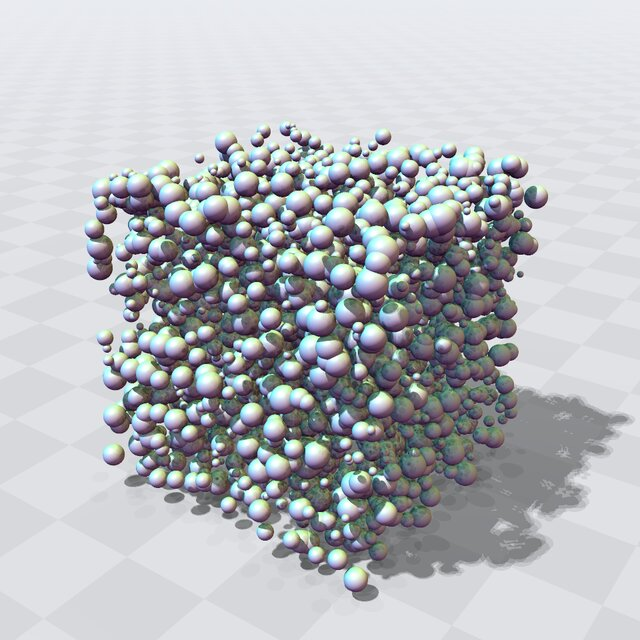
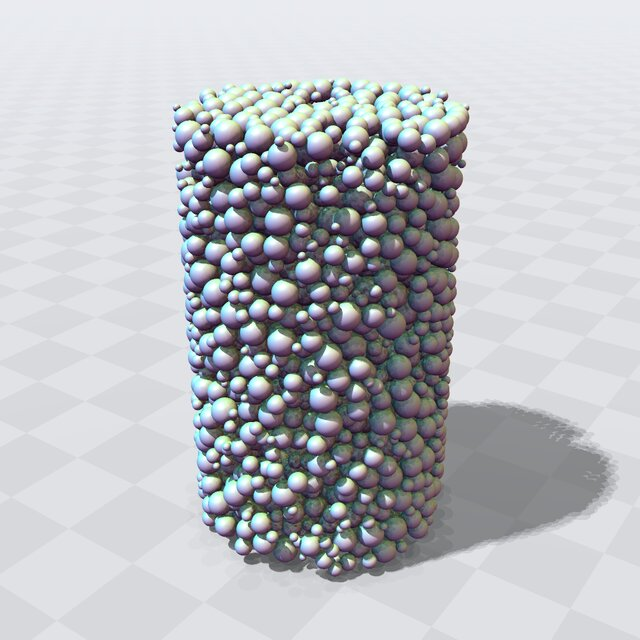
ParticleContacts: push the particles apart in a cylinder until none overlap, then a near-contact force
Seeded at random, the particles overlapped, and the example showed them so. They are now
pushed apart a round at a time, with a rebuild() after each, until none overlap, inside an
upright cylinder; the GPU part sums a short-range repulsion over the gap.

Claude-Session: https://claude.ai/code/session_01FnaeZk1ThKVcT9ypbex2Vt

diff --git a/Examples/ParticleContacts/main.cpp b/Examples/ParticleContacts/main.cpp
@@ -2,10 +2,14 @@
 //
 // SPDX-License-Identifier: GPL-3.0-or-later
 
-// Particles of differing sizes and their contacts: for each particle, the particles it overlaps or comes within a
-// gap of, through SphereCloudBVH::forEachContact(). The contacts are listed per particle on the host, in arrays of
-// the program's own, and a contact force is summed per particle on a GPU. See README.md.
+// Particles of differing sizes packed in a cylinder, and their contacts: for each particle, the particles that come
+// within a gap of it, through SphereCloudBVH::forEachContact(). Particles seeded at random overlap, so they are first
+// pushed apart, a round at a time, rebuilding the cloud after each round, until none overlap. Their contacts are then listed per
+// particle on the host, in arrays of the program's own, and a near-contact force is summed per particle on a GPU.
+// See README.md.
 
+#include <algorithm>
+#include <cmath>
 #include <cstddef>
 #include <cstdint>
 #include <iomanip>
@@ -20,68 +24,143 @@
 #define EBGEOMETRY_PRECISION double
 #endif
 
-using T     = EBGEOMETRY_PRECISION;
-using Vec3  = EBGeometry::Vec3T<T>;
-using Cloud = EBGeometry::SphereCloudBVH<T>;
+using T      = EBGEOMETRY_PRECISION;
+using Vec3   = EBGeometry::Vec3T<T>;
+using Cloud  = EBGeometry::SphereCloudBVH<T>;
+using Source = EBGeometry::SphereCloud::
+  FromCentersAndRadii<T, EBGeometry::PointCloud::FromArray<T>, EBGeometry::SphereCloud::FromRadii<T>>;
 
 // What forEachContact() reports for each contact: the other particle's index, and the separation of the two
 // surfaces, |c_i - c_j| - (r_i + r_j), as its distance (negative when they overlap).
 using Hit = EBGeometry::SphereCloud::Hit<T>;
 
-// The particles: numParticles in the unit cube, with radii between minRadius and maxRadius. Two particles are in
-// contact when their surfaces are less than gap apart.
+// The particles: numParticles seeded in an upright cylinder (along y), with radii between minRadius and maxRadius. Two
+// particles are in contact when their surfaces are less than gap apart. Overlapping particles are pushed until they
+// are about skin apart, in at most maxRounds rounds.
 constexpr std::size_t   numParticles = 3000;
+constexpr T             cylRadius    = T(0.4);
+constexpr T             cylHeight    = T(1.3);
+constexpr T             twoPi        = T(6.283185307179586);
 constexpr T             minRadius    = T(0.01);
 constexpr T             maxRadius    = T(0.04);
 constexpr T             gap          = T(0.005);
+constexpr T             skin         = T(0.0005);
+constexpr int           maxRounds    = 200;
+constexpr std::size_t   leafSize     = 64;
 constexpr std::uint64_t centerSeed   = 123456789ULL;
 constexpr std::uint64_t radiusSeed   = 192837465ULL;
 
 // ── The code that runs on either side ──────────────────────────────────────────────────────────────────
 //
-// A contact force for EBGeometry::GPU::transform(): one particle's index in, the summed force of the particles it
-// overlaps out, each pushing along the line of centers in proportion to the overlap. The query visits the
-// particle's contacts and calls the lambda once for each.
-struct ContactForce
+// A repulsion for EBGeometry::GPU::transform(): one particle's index in, the summed push of the particles closer to
+// it than m_range out. Each pushes along the line of centers, in proportion to how much closer than m_range it is,
+// as the short-range forces of a particle code do. The query visits those particles and calls the lambda for each.
+struct Repulsion
 {
   Cloud m_cloud;
+  T     m_range;
 
   EBGEOMETRY_HOST_DEVICE
   Vec3
   operator()(const std::uint32_t a_index) const noexcept
   {
     const Vec3 center = m_cloud.sphere(a_index).m_center;
-    Vec3       force  = Vec3::zeros();
+    Vec3       push   = Vec3::zeros();
 
-    m_cloud.forEachContact(a_index, gap, [this, &center, &force](const Hit& a_contact) {
+    m_cloud.forEachContact(a_index, m_range, [this, &center, &push](const Hit& a_contact) {
       const Vec3 apart  = center - m_cloud.sphere(a_contact.index).m_center;
       const T    length = apart.length();
 
-      if (a_contact.distance < T(0) && length > T(0)) {
-        force += (-a_contact.distance / length) * apart;
+      if (length > T(0)) {
+        push += ((m_range - a_contact.distance) / length) * apart;
       }
     });
 
-    return force;
+    return push;
   }
 };
+
+// Keeps a particle in the cylinder: its center at least its radius from the wall and from both ends.
+void
+keepInside(Vec3& a_center, const T a_radius)
+{
+  const T rho  = std::sqrt(a_center[0] * a_center[0] + a_center[2] * a_center[2]);
+  const T most = cylRadius - a_radius;
+
+  if (rho > most) {
+    a_center[0] *= most / rho;
+    a_center[2] *= most / rho;
+  }
+
+  a_center[1] = std::clamp(a_center[1], a_radius, cylHeight - a_radius);
+}
 
 int
 main(int argc, char* argv[])
 {
-  // ── Build the cloud ────────────────────────────────────────────────────────────────────────────────
-  const std::vector<Vec3> centers = EBGeometry::Random::samplePoints<T>(numParticles, centerSeed);
+  // ── Build the cloud, with room to rebuild ──────────────────────────────────────────────────────────
+  //
+  // Centers uniform in the cylinder, from uniform draws in the unit cube. The cloud reads the program's own centers
+  // and radii through Source; a particle is known by its index in them. The last argument of build() reserves room
+  // for rebuilds of up to that many particles.
+  std::vector<Vec3>       centers = EBGeometry::Random::samplePoints<T>(numParticles, centerSeed);
   const std::vector<Vec3> draws   = EBGeometry::Random::samplePoints<T>(numParticles, radiusSeed);
 
   std::vector<T> radii(numParticles);
 
   for (std::size_t i = 0; i < numParticles; i++) {
-    radii[i] = minRadius + draws[i][0] * (maxRadius - minRadius);
+    const T rho   = cylRadius * std::sqrt(centers[i][0]);
+    const T theta = twoPi * centers[i][1];
+
+    centers[i] = Vec3(rho * std::cos(theta), cylHeight * centers[i][2], rho * std::sin(theta));
+    radii[i]   = minRadius + draws[i][0] * (maxRadius - minRadius);
+
+    keepInside(centers[i], radii[i]);
   }
 
   EBGeometry::Pool pool(EBGeometry::hostMemoryResource());
 
-  const Cloud cloud(pool, centers, radii);
+  const Source source{EBGeometry::PointCloud::FromArray<T>{centers.data()},
+                      EBGeometry::SphereCloud::FromRadii<T>{radii.data()}};
+
+  Cloud cloud = Cloud::build(pool, source, numParticles, leafSize, numParticles);
+
+  // ── Push the particles apart ───────────────────────────────────────────────────────────────────────
+  //
+  // A contact within a gap of 0 is an overlap. Each round moves every particle by half the push of the particles
+  // closer to it than skin (half, since both particles of a pair move), keeps it in the cylinder, then rebuilds the
+  // cloud from the moved centers, in the arrays build() reserved.
+  std::vector<Vec3> push(numParticles);
+
+  for (int round = 0;; round++) {
+    std::size_t overlaps = 0;
+
+    for (std::uint32_t i = 0; i < numParticles; i++) {
+      cloud.forEachContact(i, T(0), [&overlaps](const Hit&) { overlaps++; });
+    }
+
+    if (round % 10 == 0 || overlaps == 0) {
+      std::cout << "Round " << std::setw(3) << round << ": " << overlaps / 2 << " overlapping pairs\n";
+    }
+
+    if (overlaps == 0 || round == maxRounds) {
+      break;
+    }
+
+    const Repulsion repulsion{cloud, skin};
+
+    for (std::uint32_t i = 0; i < numParticles; i++) {
+      push[i] = repulsion(i);
+    }
+
+    for (std::size_t i = 0; i < numParticles; i++) {
+      centers[i] += T(0.5) * push[i];
+
+      keepInside(centers[i], radii[i]);
+    }
+
+    cloud.rebuild(source, numParticles);
+  }
 
   // ── One particle's contacts ────────────────────────────────────────────────────────────────────────
   //
@@ -90,8 +169,7 @@ main(int argc, char* argv[])
   std::cout << std::fixed << std::setprecision(4) << "Particle 0 (radius " << radii[0] << ") is in contact with\n";
 
   cloud.forEachContact(0U, gap, [](const Hit& a_contact) {
-    std::cout << "  particle " << std::setw(4) << a_contact.index << ", separation " << a_contact.distance
-              << (a_contact.distance < T(0) ? " (overlapping)" : "") << '\n';
+    std::cout << "  particle " << std::setw(4) << a_contact.index << ", separation " << a_contact.distance << '\n';
   });
 
   // ── A contact list, in the program's own arrays ────────────────────────────────────────────────────
@@ -119,11 +197,11 @@ main(int argc, char* argv[])
   std::cout << contacts.size() / 2 << " contacts between " << numParticles << " particles; particle 1 has "
             << rowStart[2] - rowStart[1] << ", particle 2 has " << rowStart[3] - rowStart[2] << '\n';
 
-  // ── The contact force on a GPU ─────────────────────────────────────────────────────────────────────
+  // ── The near-contact force on a GPU ────────────────────────────────────────────────────────────────
   //
   // Freeze the pool, mirror it into GPU::memoryResource(), and take a rebasedView() of the cloud that resolves
-  // against the copy. GPU::transform() runs ContactForce once per particle, one thread each, with no list and no
-  // atomics. In a plain C++ build the same lines run on the host.
+  // against the copy. GPU::transform() runs Repulsion over the gap once per particle, one thread each, with no list
+  // and no atomics. In a plain C++ build the same lines run on the host.
   pool.freeze();
 
   if (EBGeometry::GPU::enabled && !EBGeometry::GPU::deviceAvailable()) {
@@ -139,9 +217,9 @@ main(int argc, char* argv[])
       particles[i] = i;
     }
 
-    EBGeometry::GPU::transform(ContactForce{cloud.rebasedView(devicePool)}, particles, forces);
+    EBGeometry::GPU::transform(Repulsion{cloud.rebasedView(devicePool), gap}, particles, forces);
 
-    std::cout << "Contact forces through GPU::transform (backend: " << EBGeometry::GPU::backendName << "):\n";
+    std::cout << "Near-contact forces through GPU::transform (backend: " << EBGeometry::GPU::backendName << "):\n";
 
     for (std::uint32_t i = 0; i < 3; i++) {
       std::cout << "  particle " << i << ": " << forces[i] << '\n';

diff --git a/Docs/Sphinx/source/ExampleParticleContacts.rst b/Docs/Sphinx/source/ExampleParticleContacts.rst
@@ -3,8 +3,8 @@
 Particle contacts
 =================
 
-Particles of differing sizes and their contacts: for each particle, the particles it overlaps or comes within a
-gap of, through ``forEachContact()`` on a
+Particles of differing sizes packed in a cylinder, and their contacts: for each particle, the particles that come
+within a gap of it, through ``forEachContact()`` on a
 `SphereCloudBVH <doxygen/html/classEBGeometry_1_1SphereCloudBVH.html>`__ (see :ref:`Chap:ImplemPointCloud`). The
 source is at :file:`Examples/ParticleContacts/main.cpp`.
 
@@ -12,15 +12,15 @@ source is at :file:`Examples/ParticleContacts/main.cpp`.
    :width: 60%
    :align: center
 
-   3,000 particles in the unit cube, with radii between 0.01 and 0.04.
+   3,000 particles packed in a cylinder, with radii between 0.01 and 0.04, none overlapping.
 
 The code that runs on either side
 ---------------------------------
 
-The functor ``ContactForce`` holds the cloud by value and maps a particle's index to the force of the particles it
-overlaps, each pushing along the line of centers in proportion to the overlap. Its ``EBGEOMETRY_HOST_DEVICE`` call
-operator asks the cloud for the particle's contacts, and passes a lambda that ``forEachContact()`` calls once for
-each:
+The functor ``Repulsion`` holds the cloud by value, and a range, and maps a particle's index to the push of the
+particles closer to it than the range, each pushing along the line of centers in proportion to how much closer it
+is: the kind of short-range force a particle code sums. Its ``EBGEOMETRY_HOST_DEVICE`` call operator asks the cloud
+for the particle's contacts within the range, and passes a lambda that ``forEachContact()`` calls once for each:
 
 .. code-block:: c++
 
@@ -35,13 +35,24 @@ contact is mutual: if j is a contact of i, then i is a contact of j, at the same
 Building the cloud
 ------------------
 
-As in :ref:`Chap:ExampleSphereClouds`, the cloud is built from the program's arrays of centers and radii, and a
-particle is known by its index in them.
+The particles are seeded at random in an upright cylinder. The cloud reads the program's own arrays of centers and
+radii through ``SphereCloud::FromCentersAndRadii``, and a particle is known by its index in them. The last argument
+of ``build()`` reserves room for rebuilds of up to that many particles.
+
+Pushing the particles apart
+---------------------------
+
+Seeded at random, many particles overlap. A contact within a gap of 0 is an overlap, so the program counts them
+with ``forEachContact()``, and while there are any, moves each particle by half the push of ``Repulsion`` over a
+small range (half, since both particles of a pair move), keeps it inside the cylinder, and calls ``rebuild()`` on the
+moved centers. This is the loop a particle code runs every step: query, move, rebuild. ``rebuild()`` works in the
+arrays ``build()`` reserved, and reserves nothing.
 
 One particle's contacts
 -----------------------
 
-The program prints particle 0's contacts and their separations. ``forEachContact()`` visits them in no set order.
+The program prints particle 0's contacts within the gap and their separations, none of them negative now.
+``forEachContact()`` visits them in no set order.
 
 A contact list
 --------------
@@ -53,11 +64,11 @@ appears in the rows of both its particles. The same three steps run on a GPU, wi
 
 A force loop does not need the list: it can call ``forEachContact()`` once per particle, as the next section does.
 
-The contact force on a GPU
---------------------------
+The near-contact force on a GPU
+-------------------------------
 
 The pool is frozen and mirrored into ``GPU::memoryResource()``, and ``rebasedView()`` gives a cloud that reads the
-copy. ``GPU::transform()`` runs ``ContactForce`` once per particle, one thread each, with no list and no atomics:
+copy. ``GPU::transform()`` runs ``Repulsion`` over the gap once per particle, one thread each, with no list and no atomics:
 each thread adds up the forces on its own particle. In a plain C++ build the same lines run on the host.
 
 Looking at it
@@ -74,7 +85,7 @@ Building and running
 --------------------
 
 See :ref:`Chap:Building` for how to compile it with CMake, GNU Make, or a direct compiler invocation.
-Built for a GPU (see :ref:`Sec:ExamplesGPU`), the contact forces and the window run on the device.
+Built for a GPU (see :ref:`Sec:ExamplesGPU`), the near-contact forces and the window run on the device.
 
 .. code-block:: bash
 

diff --git a/Examples/README.md b/Examples/README.md
@@ -28,7 +28,7 @@ The reading order:
 15. `PointClouds`: closest points and the k-nearest-neighbor graph of a point cloud with `PointCloudBVH`, and the same with `PointCloudHashGrid`.
 16. `ParticleNeighbors`: particles that move, in arrays of the program's own, and their 8 nearest neighbors after every step: a `PointCloudHashGrid` built on the device once, with room to grow, and rebuilt in place.
 17. `SphereClouds`: particles of differing sizes, in arrays of the program's own: the signed distance to their union and the closest particle, with `SphereCloudBVH`.
-18. `ParticleContacts`: the contacts between particles of differing sizes (`SphereCloudBVH::forEachContact()`): one particle's, a contact list in arrays of the program's own, and a contact force per particle on a GPU.
+18. `ParticleContacts`: particles of differing sizes pushed apart in a cylinder until none overlap, with a `rebuild()` each round, and their contacts (`SphereCloudBVH::forEachContact()`): one particle's, a contact list in arrays of the program's own, and a near-contact force per particle on a GPU.
 19. `BVHTraversal`: walking a BVH with a search of your own (`PackedBVH::traverse()`): the nearest object to a point, the first one a ray hits, whether a segment is blocked.
 20. `RayTracing`: casting rays at a triangle mesh (`firstHit()`, `intersects()`): where a ray or a particle's step first crosses the surface, and the same walk of the BVH written by hand.
 21. `OctreeBoundingVolume`: estimating a bounding box for a function with no closed-form one.

diff --git a/Examples/ParticleContacts/README.md b/Examples/ParticleContacts/README.md
@@ -1,9 +1,10 @@
 Examples/ParticleContacts
 -------------------------
 
-3,000 particles of differing sizes in the unit cube, in a `SphereCloudBVH`, and their contacts: for each particle,
-the particles it overlaps or comes within a gap of, through `forEachContact()`. It lists one particle's contacts,
-builds a contact list in arrays of the program's own, and sums a contact force per particle through
+3,000 particles of differing sizes packed in a cylinder, in a `SphereCloudBVH`, and their contacts: for each
+particle, the particles that come within a gap of it, through `forEachContact()`. Seeded at random, the particles
+are pushed apart a round at a time, with a `rebuild()` after each, until none overlap. It then lists one particle's
+contacts, builds a contact list in arrays of the program's own, and sums a near-contact force per particle through
 `GPU::transform`.
 
 Building
@@ -66,5 +67,5 @@ Running
 
     ./ParticleContacts.ex
 
-It prints particle 0's contacts and their separations, the number of contacts in the list, and the contact force
-on a few particles from `GPU::transform`.
+It prints the overlapping pairs every ten rounds until none are left, particle 0's contacts and their separations,
+the number of contacts in the list, and the near-contact force on a few particles from `GPU::transform`.

diff --git a/Docs/Sphinx/source/Examples.rst b/Docs/Sphinx/source/Examples.rst
@@ -60,8 +60,9 @@ The examples build on each other. A new user can read them in this order:
    BVH or a hash grid.
 #. :ref:`Chap:ExampleSphereClouds`: particles of differing sizes, the signed distance to their union and
    the closest particle.
-#. :ref:`Chap:ExampleParticleContacts`: the contacts between particles of differing sizes, a contact list,
-   and a contact force per particle on a GPU.
+#. :ref:`Chap:ExampleParticleContacts`: particles of differing sizes pushed apart in a cylinder until none
+   overlap, rebuilding the cloud each round; their contacts, a contact list, and a near-contact force per particle
+   on a GPU.
 #. :ref:`Chap:ExampleBVHTraversal`: walking a BVH with a search of your own -- the nearest object to
    a point, the first one a ray hits, whether a segment is blocked.
 #. :ref:`Chap:ExampleRayTracing`: casting rays at a triangle mesh -- where a ray or a particle's step
